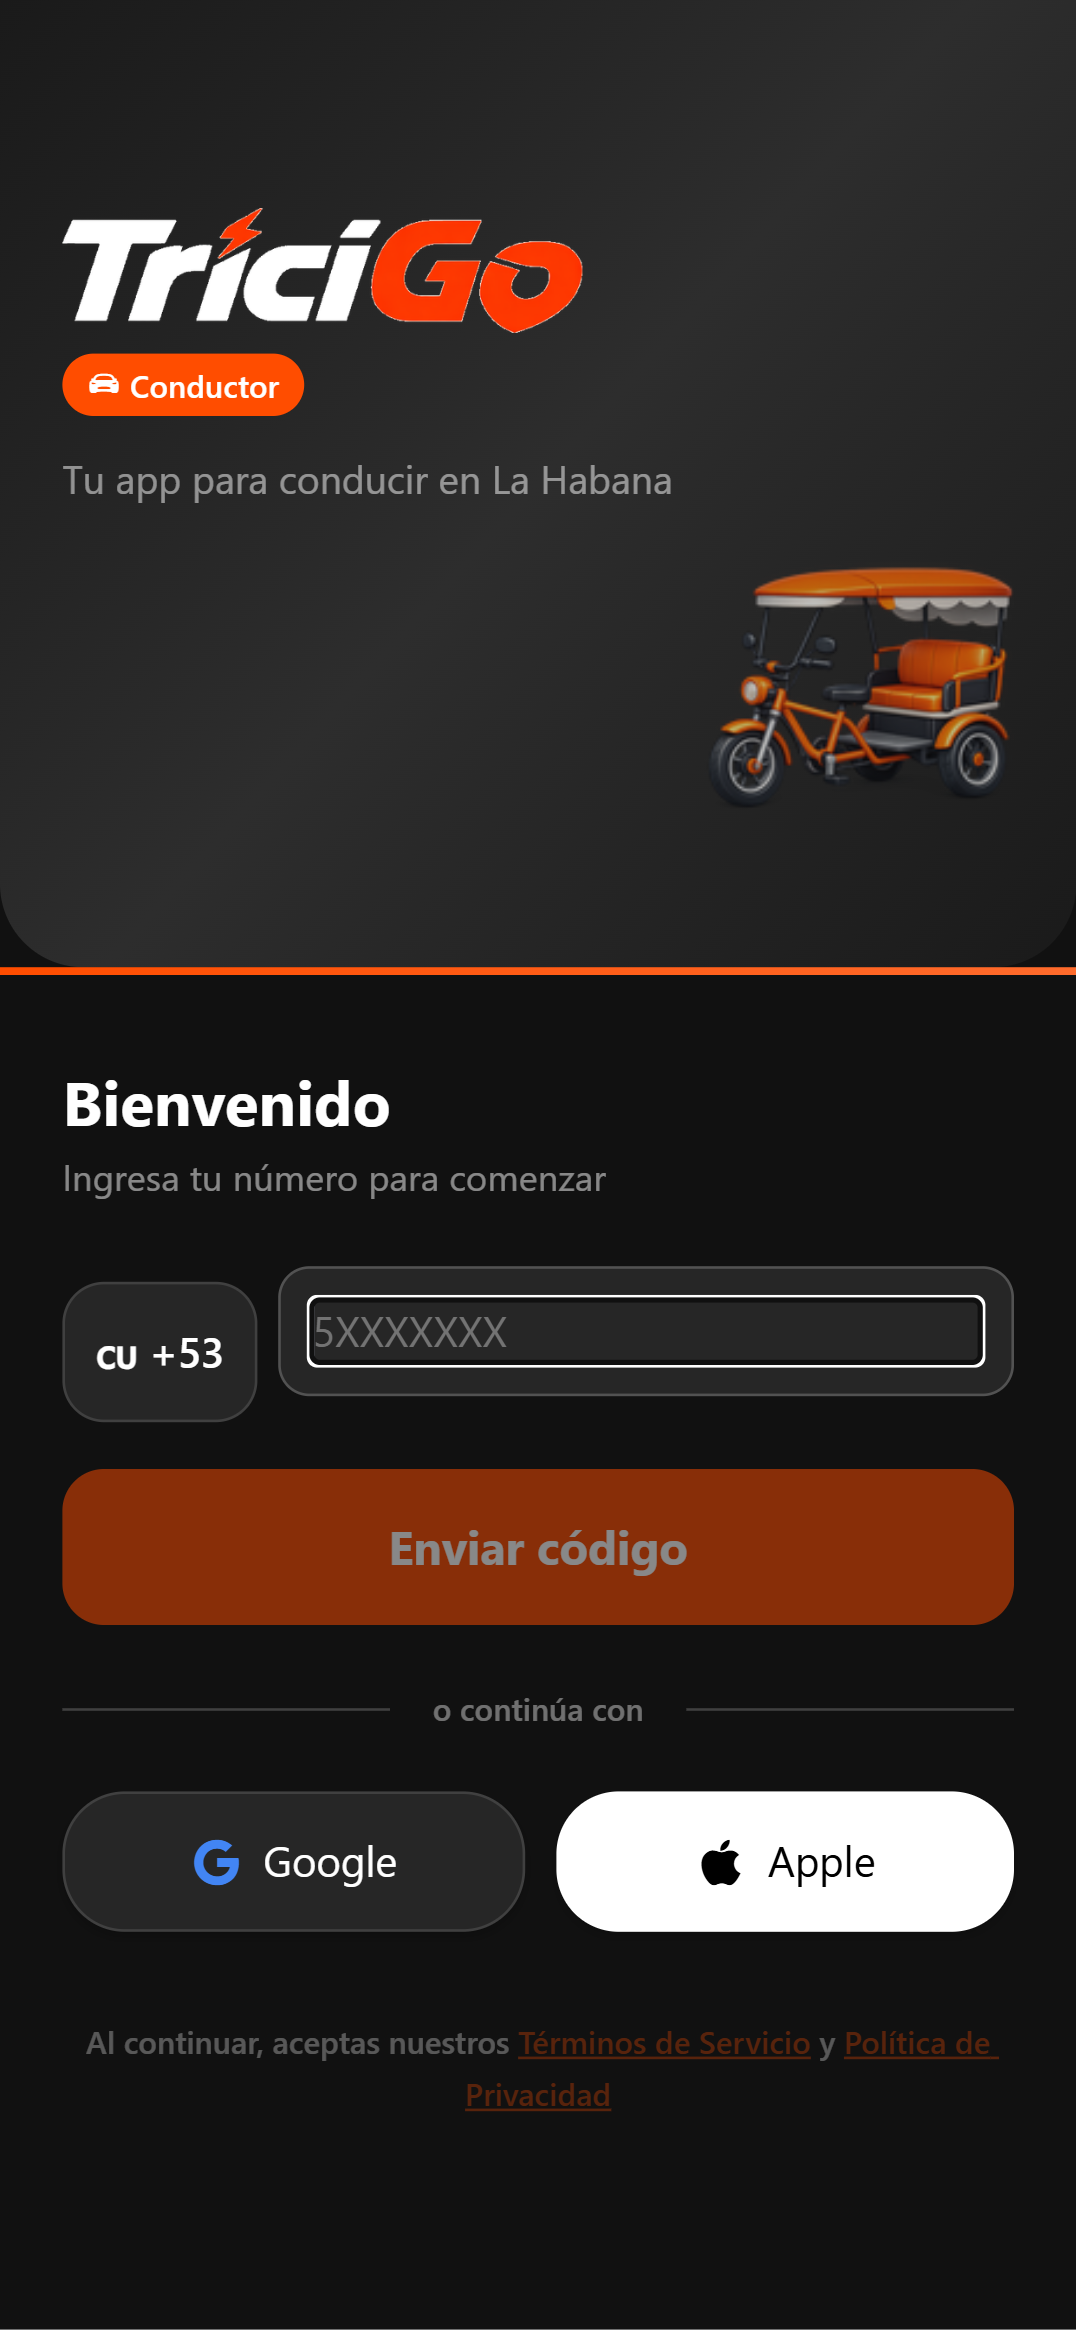
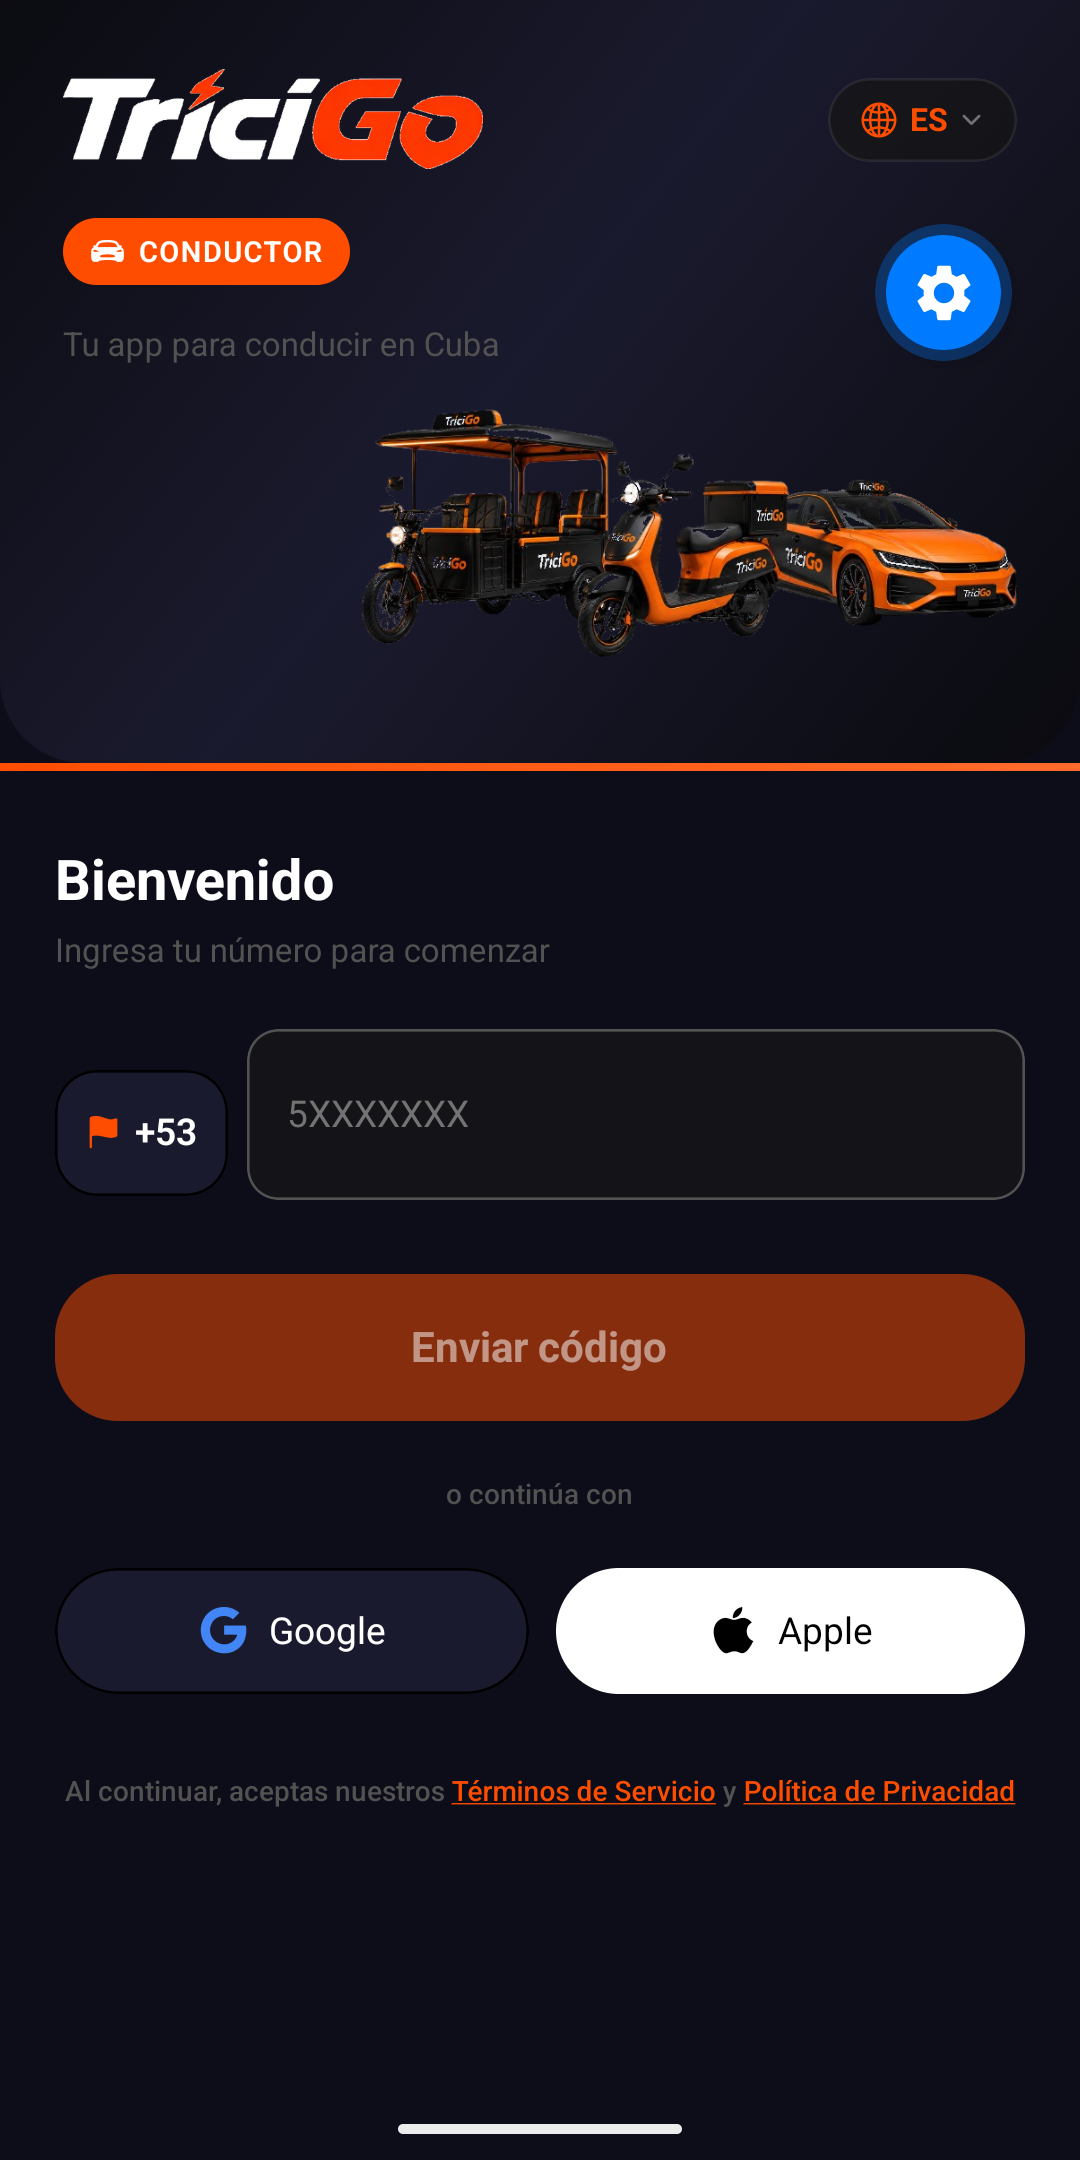
chore(driver): refresh store screenshots (Play 2:1) + document workflow
Replace driver store-listing screenshots with the redesigned UI, cropped to 1080x2160 (Google Play 2:1 max aspect). Add 05-wallet (Credito de comision) in place of the old 05-profile. Also document the store-screenshot workflow and the shared-worktree branch-switch hazard in CLAUDE.md.

diff --git a/CLAUDE.md b/CLAUDE.md
@@ -1680,6 +1680,45 @@ FROM cancellation_rating_events ORDER BY created_at DESC LIMIT 20;
 
 ---
 
+### Capturas de tienda (store screenshots) — workflow canónico (verificado 2026-06-04)
+
+Para refrescar `apps/<app>/store-metadata/screenshots/` (Google Play / App Store):
+
+**1. Barra de estado limpia — demo mode de Android SystemUI (por ADB).**
+```
+adb shell settings put global sysui_demo_allowed 1
+adb shell am broadcast -a com.android.systemui.demo -e command enter
+adb shell am broadcast -a com.android.systemui.demo -e command clock -e hhmm 1200
+adb shell am broadcast -a com.android.systemui.demo -e command battery -e level 100 -e plugged false
+adb shell am broadcast -a com.android.systemui.demo -e command network -e wifi show -e level 4
+adb shell am broadcast -a com.android.systemui.demo -e command notifications -e visible false
+```
+Apagar: `... -e command exit` + `settings put global sysui_demo_allowed 0`. **Limitación verificada (Pixel 9):** controla reloj/batería/wifi/señal pero **NO oculta las notificaciones** (Gmail, ads del carrier). Para barra impecable: el usuario las borra (swipe) o el recorte del paso 3 saca la barra entera.
+
+**2. Bajar por ADB + identificar.** El usuario captura en el celu (NO tomamos screenshots nosotros — rompe la sesión). Bajar con **PowerShell** (NO Git Bash: convierte mal `/sdcard/...`; si hay que usar bash, `MSYS_NO_PATHCONV=1` + dest en path Windows). Listar capturas: `adb shell content query --uri content://media/external/images/media --projection _display_name:relative_path --sort '_id DESC'`. **Identificar pantalla→archivo con un SUBAGENTE aislado** (leer 5-6 PNG en la sesión principal la crashea; el subagente lo absorbe).
+
+**3. Recortar a la proporción de Google Play: MÁXIMO 2:1.** Las nativas del Pixel 9 son **1080×2424 (~2.24:1) → Play las RECHAZA**. Recortar a **1080×2160 (2:1)** con `System.Drawing` (PowerShell, sin deps): sacar la barra de estado (arriba) + barra de nav/tabs (abajo); en pantallas con contenido abajo (login) recortar más de arriba. **Verificar el recorte con un subagente** (que no cortó título/botones).
+
+**4. Seed temporal si la captura se ve vacía ($0).** Sembrar datos reales en prod (`mcp__execute_sql`, autorizar vía AskUserQuestion): viajes completados HOY con `id` fijos (`ON CONFLICT DO NOTHING`, idempotente), `driver_id` = **`driver_profiles.id`** (NO el `users.id`). El display computa earnings = `SUM(final_fare_cup) × (1−comisión)`. **Limpiar después**: `DELETE` por los ids fijos + sus `ride_pricing_snapshots` (insertar el ride directo NO toca wallet/ledger → cleanup limpio).
+
+**5. Colocar + commitear** por nombre estable (`01-login`…`05-*`). El usuario sube manual a la consola (el repo es backup/control de versión).
+
+### Worktrees compartidos: sesiones paralelas pueden cambiar tu rama (verificado 2026-06-04)
+
+Un worktree (`.claude/worktrees/<x>`) puede estar en uso por **varias sesiones**. Una sesión paralela puede hacer **checkout de otra rama** en tu worktree detrás tuyo: tu commit queda en la rama vieja, el working tree salta de rama, y tus cambios sin commitear cuelgan en la rama equivocada. **Antes de commitear/pushear SIEMPRE `git branch --show-current` + `git log -1`.**
+
+**Para commitear a una rama sin pelear con el worktree compartido → worktree temporal aislado:**
+```
+git worktree add <temp> <branch>                  # rama existente
+git worktree add -b <nueva> <temp> origin/master  # rama nueva desde master
+# editar/copiar, git add, commit, push
+git worktree remove <temp>
+```
+
+**No mergear a master una rama cuyo PR ya fue squash-merged.** Tras el squash (#NNN) la rama queda "detrás" en historia aunque su **contenido** ya esté en master. `git diff --stat origin/master..rama` (DIRECTO, dos puntos) muestra el contenido realmente distinto; si lista archivos que master tiene **más nuevos**, mergear esa rama los **revertiría**. En ese caso: rama **fresca desde `origin/master`** con SOLO el delta nuevo. (Esta sesión: #398 ya había squash-mergeado driver-launch-fixes + map-fix; los screenshots fueron a una rama fresca para no revertir #399/#400.)
+
+---
+
 ### Recordatorio para Claude
 
 **Siempre leer `CLAUDE.md` al empezar** y actualizar esta sección cuando aparezca un nuevo problema, comando útil, o paso de troubleshooting verificado en una sesión real.
